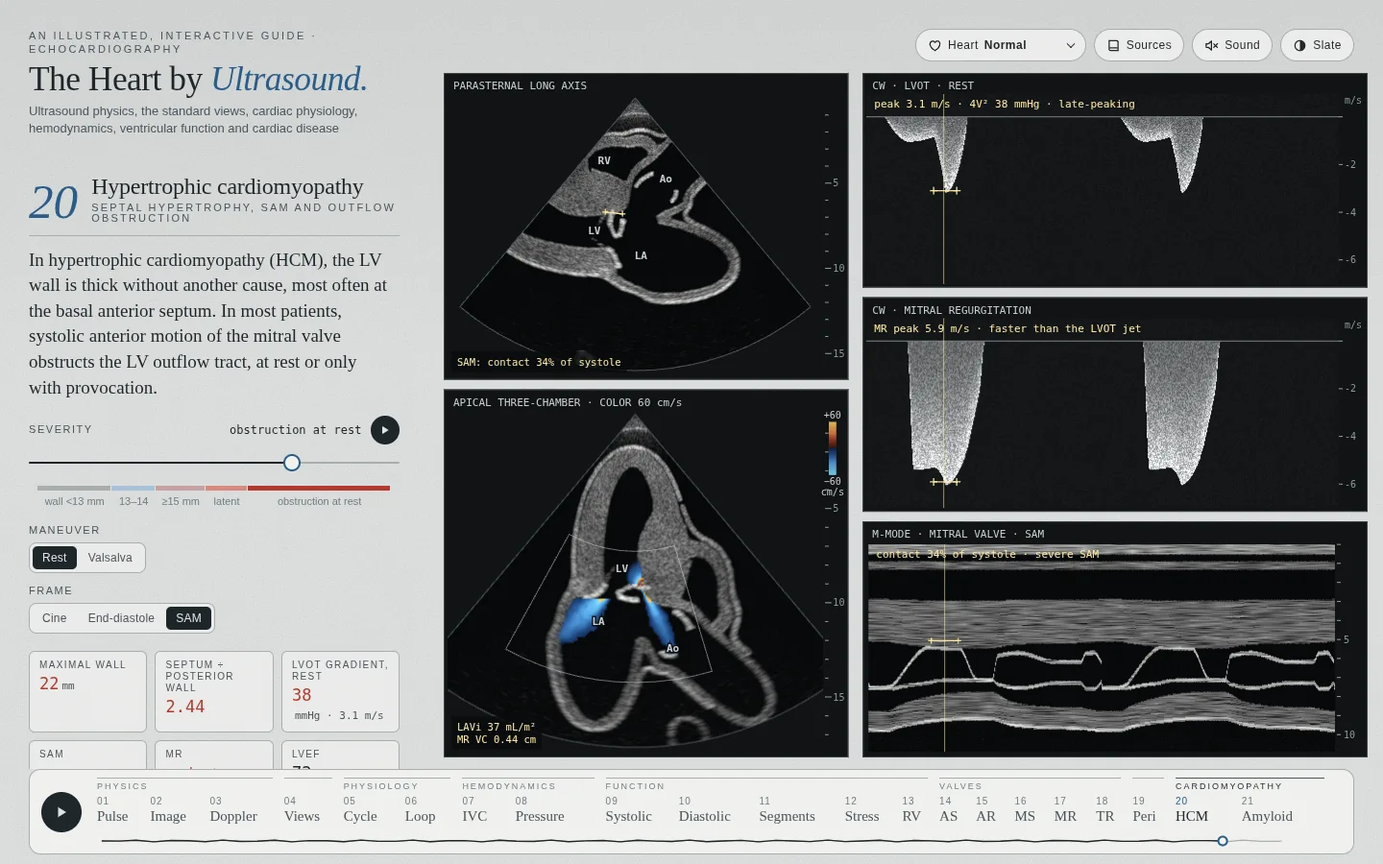
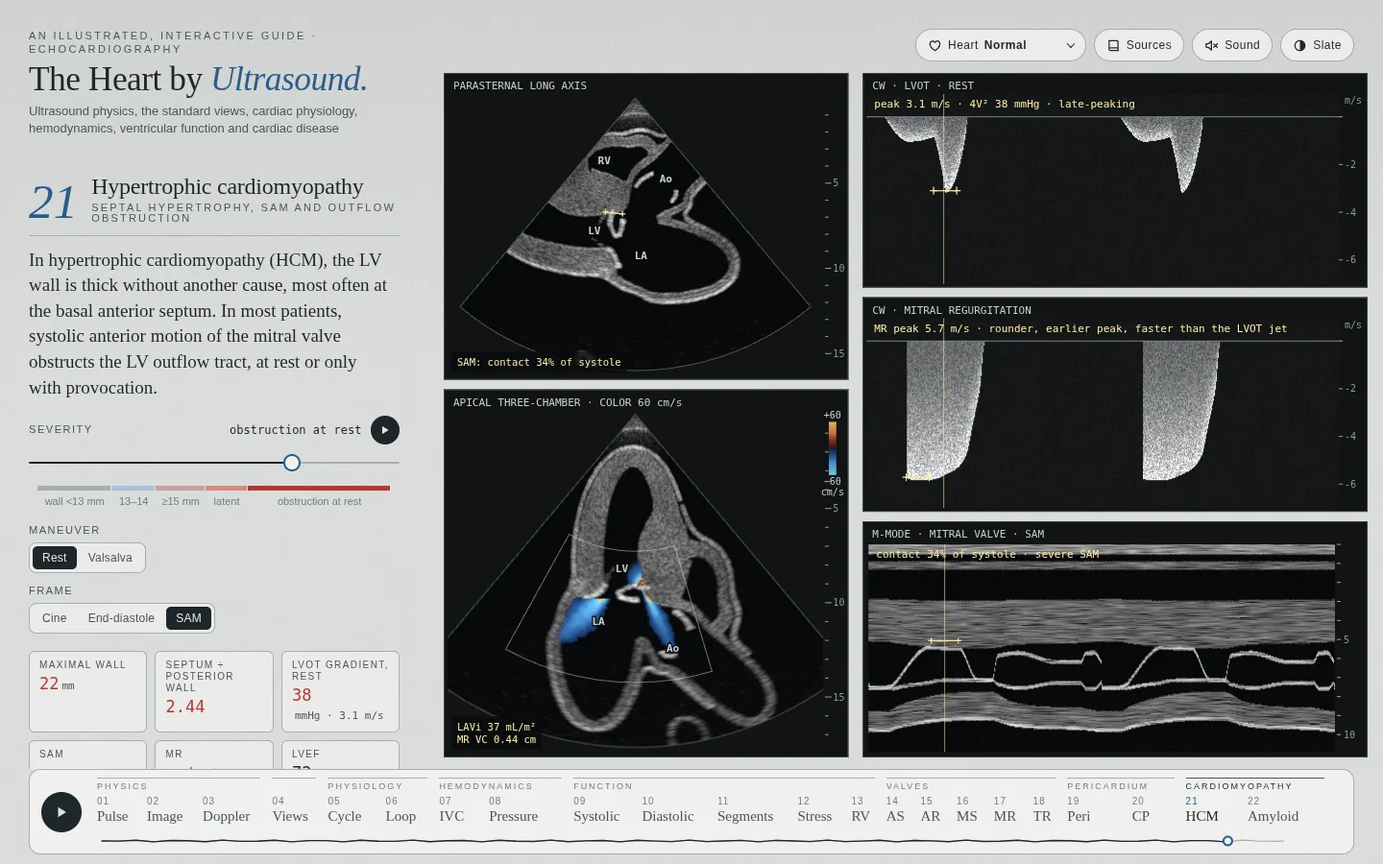
Chapter 21: the MR jet peaks before the LVOT jet
With SAM, the LV pressure is now a rounded curve that peaks in
mid-systole. The aortic pressure is the LV pressure less 4v². It rises
up to 22.5 mmHg above the cycle model's, then falls up to 20 mmHg below
it as the gradient peaks. Before, the LV pressure was the aortic
pressure plus 4v², so the MR peaked with the LVOT dagger.

The MR keeps its SAM-related onset in mid-systole (AHA/ACC 2024, ASE
2022) and now starts at its full velocity. It is faster than the LVOT
jet at every instant.

Times of peak on the normal heart, ms from the R wave, LVOT/MR, before
and after:
- 53%: rest 215/205 to 215/185; Valsalva 292/292 to 292/187
- 72%: rest 286/286 to 286/187; Valsalva 263/263 to 263/241
- 100%: rest 245/245 to 245/231; Valsalva 237/237 to 237/227

The printed MR peaks fall by 0 to 0.3 m/s. The LVOT velocities and
gradients do not change. The MR strip adds "rounder" with contact and
"earlier peak" from a lead of 30 ms. The README limit and checks, the
figure's text and the screenshot of 21 are updated.

Claude-Session: https://claude.ai/code/session_01NtQNVy8YQ5NUAw3xwF3MnN

diff --git a/src/ch/hcm.js b/src/ch/hcm.js
@@ -120,9 +120,10 @@ const provOf = (s) => (s[PROV] === 'valsalva' ? 'valsalva' : 'rest');
 /**
  * The values at slider position x on heart, as printed: the septum is the track's or the heart's
  * own, whichever is thicker; the posterior wall, the LV diameter and the LVEF are the image's;
- * the gradients are 4V² of the printed peak velocities. The grades read these numbers.
+ * the gradients are 4V² of the printed peak velocities. The grades read these numbers. withMr
+ * false leaves out the MR's peak, which the grade does not need (the bands ask for many grades).
  */
-function measure(x, heart) {
+function measure(x, heart, withMr = true) {
   const m = TRK(x);
   const v = { s: x, heart };
   v.ivs = Math.max(rnd(m.ivs), rnd(ownIvs(heart)));
@@ -140,7 +141,7 @@ function measure(x, heart) {
     const vc = rnd(vcOf(sm), 2);
     v[k] = { sam: sm, samGrade: SAM_GRADE(sm), vel, grad: rnd(4 * vel * vel), vc, mr: MR_GRADE(vc) };
   }
-  for (const k of ['rest', 'valsalva']) v[k].mrVel = rnd(mrPeak(v, v[k]), 1);
+  if (withMr) for (const k of ['rest', 'valsalva']) Object.assign(v[k], peaksOf(v, v[k]));
   v.grade = gradeOfV(v);
   return v;
 }
@@ -162,7 +163,17 @@ function shown(s) {
   if (key !== lastKey || !lastShown) { lastKey = key; lastShown = measure(s[KEY], heartOf(s)); }
   return lastShown;
 }
-export const gradeOf = (x, heart = 'normal') => measure(x, heart).grade;
+export const gradeOf = (x, heart = 'normal') => measure(x, heart, false).grade;
+/**
+ * The Doppler model at slider position x on heart, with maneuver prov: the printed values (v),
+ * the maneuver's state (P) and, as functions of the time in ms from the R wave, the LVOT and MR
+ * velocities (m/s) and the LV and aortic pressures (mmHg). The figure draws the same; tools and
+ * checks read it.
+ */
+export function dopplerAt(x, heart = 'normal', prov = 'rest') {
+  const v = measure(x, heart), P = v[prov];
+  return { v, P, lvot: (t) => lvotAt(P, t), mr: (t) => mrAt(v, P, t), lvp: (t) => lvpAt(P, t), aop: (t) => aopAt(P, t) };
+}
 
 // ---------------------------------------------------------------- SAM through the beat
 const smooth = (u) => (u <= 0 ? 0 : u >= 1 ? 1 : u * u * (3 - 2 * u));
@@ -210,29 +221,119 @@ function lvotAt(P, t) {
   else if (t > tp && t < tend) g = Math.pow(Math.cos((Math.PI / 2) * ((t - tp) / (tend - tp))), 0.7);
   return Math.max(base, V * g);
 }
-/** LV systolic pressure (mmHg) at t: the cycle model's, and in ejection at least the aortic pressure plus the LVOT gradient. */
-function lvpAt(P, t) {
-  const c = cycleAt(t), v = lvotAt(P, t);
-  return c.avOpen ? Math.max(c.lv, c.ao + 4 * v * v) : c.lv;
-}
 // The SAM-related MR starts when SAM parts the leaflets: halfway from the SAM's onset to the
 // contact (at least 100 ms), or to the SAM's peak without contact; it lasts to 430 ms, in
-// isovolumic relaxation. SAM-related MR is typically mid-to-late systolic (Ommen 2024).
+// isovolumic relaxation. MR often begins in isovolumic contraction, but in HCM it may begin only
+// as SAM parts the leaflets, in mid-to-late systole (Nagueh 2022). SAM-related MR is typically
+// mid-to-late systolic (Ommen 2024).
 const MR_OFF = 430;
 const mrOn = (sm) => (sm.kind === 'contact' ? Math.max(100, (T_ON + contactOf(sm)[0]) / 2) : (T_ON + T_PK) / 2);
-/** MR velocity (m/s) at t: √((LV pressure − LA pressure) ÷ 4) while the leaflets are apart. */
+
+// ---------------------------------------------------------------- the pressures
+// With SAM the LV systolic pressure is a rounded curve that peaks in mid-systole, and the aortic
+// pressure is the LV pressure less the LVOT gradient (4v², Bernoulli). So the aortic pressure
+// rises early (the spike), falls below the cycle model's as the gradient peaks, when the flow
+// ebbs and the aortic valve notches (Nagueh 2022), and recovers as the gradient falls (the dome).
+// The MR velocity comes from the LV pressure, so it peaks with it, before the LVOT velocity.
+// The curve: the cycle model's LV pressure plus a bump over ejection, A × b(t), with b(tb) = 1,
+// held by a soft minimum under the spike limit: the cycle model's aortic pressure plus AO_SWING
+// plus the gradient, at its running maximum up to the gradient's peak. On the five hearts the
+// aortic pressure so rises at most 22.5 mmHg above the cycle model's. A is the least that keeps
+// it at most AO_SWING below. tb starts at 190 ms, and at least 35 ms after the MR starts, so the
+// MR rises to its peak; the chapter takes the tb whose curve has one peak, earliest.
+const T_MID = 190, AO_SWING = 20, SOFT = 2.5;
+const B0 = EV.avo, B1 = EV.avc + 30, E_END = EV.avc + 8, DT = 2;
+/** The bump: 0 at aortic opening, 1 at tb, 0 at 30 ms after aortic closure. */
+function bumpAt(t, tb) {
+  if (t <= B0 || t >= B1) return 0;
+  const g = Math.log(0.5) / Math.log((tb - B0) / (B1 - B0));
+  return Math.sin(Math.PI * Math.pow((t - B0) / (B1 - B0), g));
+}
+/** A smooth minimum of a and b, within SOFT × ln 2 of the smaller. */
+function softMin(a, b) {
+  const m = Math.min(a, b);
+  return m - SOFT * Math.log(Math.exp((m - a) / SOFT) + Math.exp((m - b) / SOFT));
+}
+/** The number of peaks of the sequence y that stand more than 0.5 mmHg above their sides. */
+function peaksIn(y) {
+  let n = 0;
+  for (let i = 1; i < y.length - 1; i++) {
+    if (!(y[i] > y[i - 1] && y[i] >= y[i + 1])) continue;
+    let l = y[i], j = i - 1;
+    while (j >= 0 && y[j] <= y[i]) l = Math.min(l, y[j--]);
+    let r = y[i], k = i + 1;
+    while (k < y.length && y[k] <= y[i]) r = Math.min(r, y[k++]);
+    if (y[i] - Math.max(l, r) > 0.5 || (j < 0 && k >= y.length)) n++;
+  }
+  return n;
+}
+/**
+ * The LV pressure in ejection for state P, every DT ms from aortic opening to 8 ms after
+ * aortic closure: { y (mmHg), tb, A }, kept on P. Without SAM, the cycle model's.
+ */
+function lvShape(P) {
+  if (P.lvb) return P.lvb;
+  const ts = [];
+  for (let t = B0; t <= E_END; t += DT) {
+    const c = cycleAt(t), u = lvotAt(P, t);
+    ts.push({ t, lv: c.lv, ao: c.ao, gr: 4 * u * u });
+  }
+  if (P.sam.kind === 'none') return (P.lvb = { y: ts.map((q) => q.lv), tb: null, A: 0 });
+  const ip = ts.reduce((a, q, i) => (q.gr > ts[a].gr ? i : a), 0), tp = ts[ip].t;
+  // the spike limit, held at its running maximum up to the gradient's peak, so that it does not
+  // fall where the cycle model's aortic pressure passes its own peak while the gradient is low
+  let run = -Infinity;
+  const hi = ts.map((q, i) => { const h = q.ao + q.gr + AO_SWING; if (i > ip) return h; run = Math.max(run, h); return run; });
+  const first = Math.max(T_MID, mrOn(P.sam) + 35);
+  let best = null;
+  for (let tb = first; tb === first || tb <= tp; tb += 4) {
+    const b = ts.map((q) => bumpAt(q.t, tb));
+    let A = 0;
+    for (let i = 0; i < ts.length; i++) if (ts[i].t <= EV.avc && b[i] > 0.02) A = Math.max(A, (ts[i].ao + ts[i].gr - AO_SWING - ts[i].lv) / b[i]);
+    const y = ts.map((q, i) => softMin(q.lv + A * b[i], hi[i]));
+    if (peaksIn(y) !== 1) continue;
+    const pt = ts[y.reduce((a, q, i) => (q > y[a] ? i : a), 0)].t;
+    if (!best || pt < best.pt) best = { y, tb, A, pt };
+  }
+  // no curve with one peak: the cycle model's aortic pressure plus the gradient, as before
+  return (P.lvb = best || { y: ts.map((q) => Math.max(q.lv, q.ao + q.gr)), tb: null, A: 0 });
+}
+/**
+ * LV pressure (mmHg) at t for state P: lvShape's curve in ejection; after it, the curve's excess
+ * over the cycle model's LV pressure fades out over 25 ms; else the cycle model's.
+ */
+function lvpAt(P, t) {
+  t = ((t % RR) + RR) % RR;
+  const S = lvShape(P), lv = cycleAt(t).lv;
+  if (t < B0) return lv;
+  const n = S.y.length - 1, x = (t - B0) / DT;
+  if (x <= n) { const i = Math.min(n - 1, Math.floor(x)), u = x - i; return S.y[i] + (S.y[i + 1] - S.y[i]) * u; }
+  const tE = B0 + n * DT, over = S.y[n] - cycleAt(tE).lv;
+  return lv + over * (1 - smooth((t - tE) / 25));
+}
+/** Aortic pressure (mmHg) at t while the LVOT carries flow: the LV pressure less the LVOT gradient. */
+const aopAt = (P, t) => lvpAt(P, t) - 4 * lvotAt(P, t) ** 2;
+/**
+ * MR velocity (m/s) at t: √((LV pressure − LA pressure) ÷ 4) while the leaflets are apart. It
+ * starts at its full velocity, as the leaflets part, so it is faster than the LVOT velocity at
+ * every instant: the two differ by the aortic pressure less the LA pressure.
+ */
 function mrAt(v, P, t) {
   t = ((t % RR) + RR) % RR;
   if (P.sam.kind === 'none') return 0;
-  const t0 = mrOn(P.sam);
-  if (t < t0 || t > MR_OFF) return 0;
-  const on = smooth((t - t0) / 25), off = 1 - smooth((t - (MR_OFF - 20)) / 20);
-  return Math.sqrt(Math.max(0, lvpAt(P, t) - v.lap) / 4) * on * off;
+  if (t < mrOn(P.sam) || t > MR_OFF) return 0;
+  const off = 1 - smooth((t - (MR_OFF - 20)) / 20);
+  return Math.sqrt(Math.max(0, lvpAt(P, t) - v.lap) / 4) * off;
 }
-function mrPeak(v, P) {
-  let m = 0;
-  for (let t = 100; t <= MR_OFF; t += 2) m = Math.max(m, mrAt(v, P, t));
-  return m;
+/** The printed MR peak (m/s) and the times (ms) at which the MR and the LVOT velocities peak. */
+function peaksOf(v, P) {
+  let m = 0, mrT = null, l = 0, lvotT = null;
+  for (let t = 0; t <= MR_OFF; t += 1) {
+    const a = mrAt(v, P, t), b = lvotAt(P, t);
+    if (a > m) { m = a; mrT = t; }
+    if (b > l) { l = b; lvotT = t; }
+  }
+  return { mrVel: rnd(m, 1), mrT, lvotT };
 }
 
 let sheet = null, st = null;
@@ -438,7 +539,10 @@ function cwMr(ctx, Pn, v) {
   const k = (bx.h * (1 - base)) / vs, y0 = bx.y + base * bx.h, xp = bx.x + bu * bx.w, yp = y0 + best * k;
   caliper(ctx, xp - 12, yp, xp + 12, yp, { solid: true });
   const pk = { x0: xp - 14, y0: yp - 6, x1: xp + 14, y1: yp + 6 };
-  note(ctx, bx, [`MR peak ${P.mrVel.toFixed(1)} m/s · faster than the LVOT jet`, `MR peak ${P.mrVel.toFixed(1)} m/s`, `${P.mrVel.toFixed(1)} m/s`], 'auto', [pk]);
+  // what the two strips show against each other: a round top with contact (the LVOT jet is a
+  // dagger), an earlier peak where it leads by 30 ms or more (about 9 px on a desktop strip)
+  const cmp = [P.sam.kind === 'contact' ? 'rounder' : null, P.lvotT - P.mrT >= 30 ? 'earlier peak' : null, 'faster than the LVOT jet'].filter(Boolean).join(', ');
+  note(ctx, bx, [`MR peak ${P.mrVel.toFixed(1)} m/s · ${cmp}`, `MR peak ${P.mrVel.toFixed(1)} m/s`, `${P.mrVel.toFixed(1)} m/s`], 'auto', [pk]);
   return bx;
 }
 

diff --git a/index.html b/index.html
@@ -1497,7 +1497,7 @@
         </ul>
         <p>CMR is indicated when the echocardiographic images are suboptimal or the hypertrophy is borderline<span class="cite" data-ref="nagueh2022"></span>.</p>
         <h3>The figure</h3>
-        <p>The long-axis and apical three-chamber views are cut from the heart model. The septum thickens at its base and in the middle of the LV, and the posterior wall keeps its thickness. The anterior leaflet moves to the printed SAM-septal gap, or touches the septum for the printed share of systole, and the LA grows to the printed volume index. The contact timing sets the gradient by the regression of Pollick<span class="cite" data-ref="pollick1984"></span>. The Valsalva switch shows the strain phase, with earlier contact and a higher gradient. The walls, the LV diameter and the LVEF are measured on the images. The patient and the numbers are illustrative.</p>
+        <p>The long-axis and apical three-chamber views are cut from the heart model. The septum thickens at its base and in the middle of the LV, and the posterior wall keeps its thickness. The anterior leaflet moves to the printed SAM-septal gap, or touches the septum for the printed share of systole, and the LA grows to the printed volume index. The contact timing sets the gradient by the regression of Pollick<span class="cite" data-ref="pollick1984"></span>. The Valsalva switch shows the strain phase, with earlier contact and a higher gradient. In the model, the LV pressure peaks in mid-systole and the aortic pressure falls as the gradient rises, so the MR jet peaks before the LVOT jet. The walls, the LV diameter and the LVEF are measured on the images. The patient and the numbers are illustrative.</p>
         <h3>Key points</h3>
         <ol class="steps">
         <li>HCM is a maximal end-diastolic LV wall thickness of 15 mm or more without another cause. A wall of 13–14 mm can be diagnostic in a family member or with a positive genetic test.</li>

diff --git a/README.md b/README.md
@@ -179,7 +179,7 @@ Every chapter but 07 shows its echo views cut from the one heart mesh. A chapter
 - **Chapter 20, constrictive pericarditis.** The four-chamber view is cut from the mesh with four targets. `periThick` (`src/gl/phenomesh.js`) moves the whole pericardium out from the heart, 1 cm at weight 1, along the radius from the LV axis. The chapter draws the pericardium's bright line at the printed thickness and up to 10 dB brighter (`periW` and `periE` in `src/echo.js`). `src/meshpanel.js` passes them as `o.peri`; other chapters keep the line at 1.5 mm and 8 dB. The line moves out by half its extra width, so its inner edge stays 0.7 to 1.1 mm from the epicardium. `sep` moves the septum toward the LV in inspiration and back in expiration, with an early diastolic bounce. On each heart its weight per cm was measured at the septum's middle: 0.91 to 0.97 cm per unit. `la` sets the LA at the printed LA volume index (`laWeight`), and `raGrow` grows the RA in proportion. In a restrictive filling pattern the walls fill fast in early diastole and then stop; the valves keep real time. On the normal heart, shifts of 1, 3, 5, 6, 7 and 8 mm draw 0.99, 2.97, 4.95, 5.94, 6.93 and 7.92 mm. On the five hearts each drawn shift is within 0.12 mm of the printed one. LA volume indexes of 25 to 60 mL/m² draw within 0.2 mL/m², above the floors below. The Doppler strips, the tissue Doppler and the M-modes are drawn from the printed values. At 24 slider positions the drawn variations, e′ velocities and reversal ratios equal the printed values.
 - **Limits in chapter 20.** Transthoracic echocardiography is unreliable for measuring pericardial thickness (Klein 2013); the image draws the thickness that the page prints. Under the amyloid heart the pericardium keeps that heart's own small effusion, so its line lies 5.9 to 6.1 mm from the epicardium. The LA target keeps the floors of chapter 10. Under the amyloid and Barlow hearts, a printed LA volume index below 33 and 40 mL/m² draws at 33.4 and 40.5. The RA is not printed; it grows with the LA, and at large weights the two targets thicken the atrial septum. The guidelines give the septal shift no size, so the page's 3 mm cut-off is a rule of this model. Breathing runs at 14 breaths a minute, five beats to a breath, so every breath shows the same five beats. The heart rate stays at 70/min, and the LV size and function stay the heart's own.
 - **Chapter 21, hypertrophic cardiomyopathy.** The parasternal long axis and the apical three-chamber view are cut from the mesh. Two targets of `src/gl/hcmmesh.js` act, with the LA (`laWeight`) and, on the normal heart, `lvSize`. `hcmSep` thickens the anterior septum at the base and in the middle of the LV. At weight 1 its LV face moves 0.6 cm toward the LV's axis, and its RV face 0.25 cm out where the RV cavity lies beyond it. It tapers toward the aortic valve, so the outflow tract stays open in diastole; the posterior wall does not move. `hcmSam` folds the distal anterior leaflet toward the septum: from 35% of the way down from its hinge, it turns 125° at weight 1 about the normal of the long-axis plane. The folded part grows 70% longer, as an elongated leaflet does. The chordae follow it, and the posterior leaflet stays, so the leaflets part. It is a move within the beat (`setMotion`), 0 in diastole. For each heart, `src/hcmcal.js` holds the calipers at end-diastole (IVSd, LVIDd, PWd) against 11 `hcmSep` weights. It holds the biplane LVEF against the same weights, and on the normal heart against 4 end-systolic `lvSize` moves. It holds the SAM-septal gap on the long axis against the `hcmSep` weight, 7 times in systole and 11 `hcmSam` weights. The chapter inverts these tables for the printed IVSd, LVEF and gap; contact draws a gap of 0.4 mm. Asked against drawn, at 10 slider positions with both switch positions, on all five hearts: the calipers read the printed IVSd, LVIDd and PWd within 0.5 mm, and the biplane LVEF is within 0.5 points. A printed SAM gap draws within 0.8 mm (0.1 mm on the disease hearts). A printed contact draws a gap of at most 1.4 mm through the contact (1.9 mm once on the bicuspid heart). The long axis and the three-chamber view lie 0.2 mm apart in this model, so both show the same gap. The outflow jet starts at the narrowest point between the leaflet and the septum. The MR jet starts where the leaflets part and runs posteriorly into the LA. Both jets share one color box (`jet` with `box: false`, `src/echo2d.js`).
-- **Limits in chapter 21.** The printed septum is the larger of the track's value and the heart's own (amyloid 16 mm, bicuspid 12 mm); the posterior wall is the heart's own. The fold reaches the septum only at a thicker septum on two hearts. The first contact comes at a septum of 22 mm on the amyloid heart and 21 mm on the ischemic heart, against 17 mm (with Valsalva) on the normal and the bicuspid heart. Below that, the page prints the least gap that the image draws, with its low gradient. So the amyloid and the ischemic heart have no latent band, and their obstruction starts at 79% and 66% of the slider. On the Barlow heart the fold is not drawn, as its leaflets billow into the LA. The page prints no SAM, a normal LVOT velocity and no SAM-related MR there. The Barlow heart's own severe MR is graded in chapter 17 and is not drawn here. The LV's end-systolic size follows the printed LVEF on the normal heart only. The other hearts keep their own contraction and print its biplane LVEF: amyloid 48–50%, ischemic 27–28%, Barlow 62–64% and bicuspid 58–60%. The CW strips show the LVOT model alone, so under the bicuspid heart the jet of its aortic stenosis is not drawn. The M-mode strip is drawn from the printed values, not cut from the mesh. The LV pressure is the aortic pressure plus the LVOT gradient, so the MR velocity peaks with the LVOT velocity; ASE 2022 notes that the MR jet usually peaks earlier.
+- **Limits in chapter 21.** The printed septum is the larger of the track's value and the heart's own (amyloid 16 mm, bicuspid 12 mm); the posterior wall is the heart's own. The fold reaches the septum only at a thicker septum on two hearts. The first contact comes at a septum of 22 mm on the amyloid heart and 21 mm on the ischemic heart, against 17 mm (with Valsalva) on the normal and the bicuspid heart. Below that, the page prints the least gap that the image draws, with its low gradient. So the amyloid and the ischemic heart have no latent band, and their obstruction starts at 79% and 66% of the slider. On the Barlow heart the fold is not drawn, as its leaflets billow into the LA. The page prints no SAM, a normal LVOT velocity and no SAM-related MR there. The Barlow heart's own severe MR is graded in chapter 17 and is not drawn here. The LV's end-systolic size follows the printed LVEF on the normal heart only. The other hearts keep their own contraction and print its biplane LVEF: amyloid 48–50%, ischemic 27–28%, Barlow 62–64% and bicuspid 58–60%. The CW strips show the LVOT model alone, so under the bicuspid heart the jet of its aortic stenosis is not drawn. The M-mode strip is drawn from the printed values, not cut from the mesh. With SAM, the LV pressure is a rounded curve that peaks in mid-systole, and the aortic pressure is the LV pressure less 4v². The page does not print the aortic pressure. It rises up to 22.5 mmHg above the cycle model's, then falls up to 20 mmHg below it as the gradient peaks. With contact, the MR jet peaks 67 to 136 ms before the LVOT jet at gradients up to 44 mmHg. The lead is 16 to 27 ms at 46 to 71 mmHg, and 10 to 15 ms at 74 to 108 mmHg. A wider lead in severe obstruction would need a larger swing of the aortic pressure. Without contact, the MR jet peaks 30 ms before the LVOT flow. Where SAM first appears, the LVOT flow can still be normal (1.0 m/s); it then peaks 32 ms before the MR jet. The MR strip names an earlier peak from a lead of 30 ms.
 - **Chapter 07 stays parametric.** Its views show the liver, the IVC, the hepatic veins and the diaphragm. The mesh views build these too, as simple tubes and a liver from `src/abdomen.js`, and the heart mesh adds only the RA at the junction. The parametric subcostal view is drawn to the measuring rule: the IVC square to the beam, the site 1.8 cm from the RA and just below the hepatic vein, and the M-mode line square to the IVC. On the mesh the IVC keeps one size (radius 1.05 to 0.95 cm), so the chapter would need an IVC target that follows the breath, a target for the hepatic vein, a plane through both and new overlays, to gain the RA of the heart shown. The cost of the choice: under a disease heart, chapter 07 draws the normal RA. The M-mode, the hepatic vein Doppler and the IVC and aorta panels do not depend on the heart.
 - **The parametric code stays** for the overlays, for chapter 07, and for the scanner format (`JETS` in `src/jets.js`).
 
@@ -399,6 +399,7 @@ node tools/render-video.mjs --reel --stills=7,42.5             # PNG stills at t
 
 ## Checks run before this commit
 
+- Chapter 21, the MR envelope. With SAM the LV pressure is now a rounded curve that peaks in mid-systole (`lvShape` in `src/ch/hcm.js`). The aortic pressure is the LV pressure less 4v², from 20 mmHg below to 22.5 mmHg above the cycle model's. The MR keeps its SAM-related onset in mid-systole (AHA/ACC 2024) and starts at its full velocity. Times of peak on the normal heart, in ms from the R wave, are given as LVOT/MR, before and then after. At 53% of the slider: rest 215/205, then 215/185; Valsalva 292/292, then 292/187. At 72%: rest 286/286, then 286/187; Valsalva 263/263, then 263/241. At 100%: rest 245/245, then 245/231; Valsalva 237/237, then 237/227. A sweep of 51 slider positions with both maneuvers on the five hearts covered 510 states, 300 of them with SAM and MR. With contact, the MR jet peaked 10 to 136 ms before the LVOT jet. Without contact, it peaked 30 ms before, or 32 ms after a normal LVOT flow where SAM first appears. In all 300 the MR is faster than the LVOT jet at every instant. Before, it was slower for its first 5 to 7 ms in the 12 states measured. In the 300 states, the printed MR peak falls by 0 to 0.3 m/s. At 53%, 5.4 and 5.9 m/s become 5.3 and 5.7 m/s. At 72%, 5.9 and 6.3 become 5.7 and 6.0 m/s; at 100%, 6.8 and 7.3 become 6.5 and 7.0 m/s. The printed LVOT velocities and gradients do not change. `node --check` on `src/ch/hcm.js`; `node tools/check-state.mjs` passes. The chapter loads under all five hearts with no page error. Layout audit at 390 × 844 and 1440 × 900, 17 states each: no findings. The video's captions at the ten holds were read again: the SAM step now gives an MR jet of 5.7 m/s. README screenshot of 21 retaken.
 - Chapter 21 Hypertrophic cardiomyopathy, new (key `hcm`); it was 20 on its branch, before #60 added Constrictive pericarditis. `node --check` on the 11 changed or new JS files; `node tools/check-state.mjs` passes, with 3 own keys for hcm. All 21 chapters load at 1440 × 900 and 390 × 844 under the normal and the amyloid heart. The chapter numbers are in order, with no page error and no sideways scroll. The chapter loads under all five hearts with no page error. Layout audit of the chapter at 390 × 844, 820 × 1180 and 1440 × 900, 17 states each: each band, both maneuvers, each frame and four other hearts. It found no overlap, clipping or sideways scroll, and no page error. Image against the printed values, measured on the mesh at 10 slider positions with both maneuvers on all five hearts: the calipers read IVSd, LVIDd and PWd within 0.5 mm, and the biplane LVEF is within 0.5 points. A printed SAM gap draws within 0.8 mm, and a printed contact draws a gap of at most 1.4 mm (1.9 mm once on the bicuspid heart). The video's captions at the ten holds were read from the page, and a storyboard of its 12 frames (1:31) was checked. The title card fits its title on one line at 128 px. Screenshots at 1440 × 900 and 390 × 844, at eight states, were compared with the figure legends of ASE 2022. Every number in the text was checked against its source. ASE 2022, AHA/ACC 2024, ESC 2023 and Lang 2015 were read in full text; Maron 2003 and 2006, Spirito 2000, Sherrid 2000 and Pollick 1984 in their PubMed abstracts. README screenshot of 20 added; no other screenshot retaken.
 - Chapter 20 Constrictive pericarditis, with a switch for restrictive cardiomyopathy. `node --check` on the eight changed JS files; `node tools/check-state.mjs`: no chapter uses another chapter's key, and chapter 20 owns two. All 21 chapters load at 1440 × 900 and 390 × 844 under the normal and the amyloid heart. No page error, no sideways scroll, and each chapter's number in its head matches its place. Chapter 20 under each of the five hearts: no page error. Layout audit of chapter 20 at 390 × 844, 820 × 1180 and 1440 × 900, 12 states each: no findings. The states: each band of both diseases, the default, and the amyloid, ischemic and normal hearts. Screenshots found notes over the breathing labels, a slider label that missed the switch and a tissue Doppler note on its caliper; all are fixed. The slider's bands: constriction is normal below 0.235, a thick pericardium to 0.47, constriction to 0.685, then all three criteria. Restrictive cardiomyopathy is normal below 0.165, grade 1 to 0.39, grade 2 to 0.745, then grade 3. Image against print, on the five hearts at 12 positions: the septal shift within 0.12 mm. The pericardium's line has the printed width, its inner edge 0.7 to 1.1 mm from the epicardium (5.9 to 6.1 under amyloidosis). The LA volume index draws within 0.2 mL/m², but at the amyloid and Barlow floors (33.4 and 40.5). The Doppler and tissue Doppler strips at 24 positions: drawn variations, e′ and reversal ratios equal the printed ones. Video: the captions at the nine holds, read from the page, and a storyboard of 9 steps, 1:22; not rendered. Sources checked against PubMed, Crossref and the guideline texts; Welch 2014, Klein 2024, Hatle 1989, Oh 1994 and Qamruddin 2019 are new. Screenshot taken: 20 at 1440 × 900.
 - Chapter 13 without the calculator and the probability of PH. `node --check` on the four changed JS files. In the browser at 1440 × 900, at six states of both loads: the page shows five readouts and three key points, no visible text names the probability, the calculator's section is hidden and empty, and no page error. `src/quiz.js` keeps four questions for chapter 13, with one marked hidden; the filter in `main.js` leaves three. All 20 chapters load at 1440 × 900 and 390 × 844 under the normal and the amyloid heart with no page error and no sideways scroll. Layout audit of chapter 13 at 390 × 844, 820 × 1180 and 1440 × 900, ten states each (both loads at each grade, both frames, the amyloid and the ischemic heart): no findings. The audit's three edited states were left out, as only the hidden calculator makes edits. The video's captions at the ten holds, read from the page: mild PH gives the RV systolic pressure and the RV size; moderate PH the pressure, the function and the caveat on TAPSE; severe RV dilation the size, the free wall and the RV end-diastolic area. No caption names the probability. 13 rendered again: 83.13 s, 2494 frames (the layout's), no flicker, −14.9 LUFS, a true peak of −4.4 dBFS, and the score file unchanged. The only frozen runs are the two frame holds, as before. README screenshot of 13 retaken.
